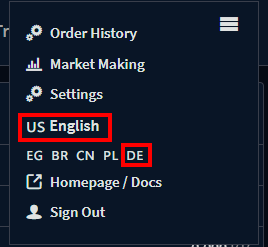
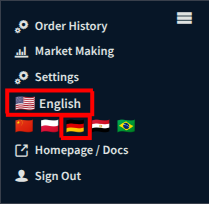
fix language switching

Changed region(s): [[0.0, 0.0, 1.0, 1.0]]

diff --git a/docs/wiki/Header.md b/docs/wiki/Header.md
@@ -52,7 +52,8 @@ selection.
 
 <img src="./images/using-bison-wallet/header-language.png" width="300" alt="">
 
-In the example above, the current language is set to ``US English`` and clicking the ``DE`` button
+In the example above, the current language is set to ``English``, while clicking the 
+<img src="./images/using-bison-wallet/header-language-de.png" width="20" alt=""> button
 will change the language to ``German``.
 
 # Settings Panel
